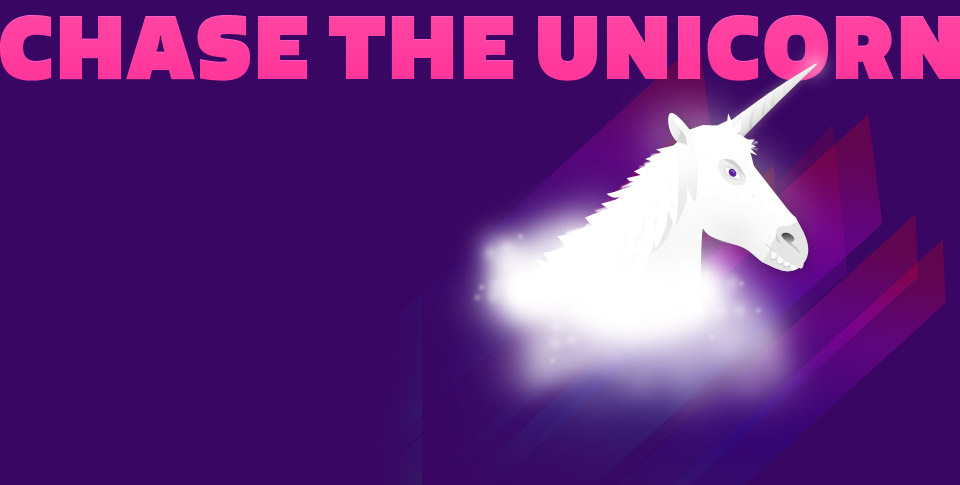
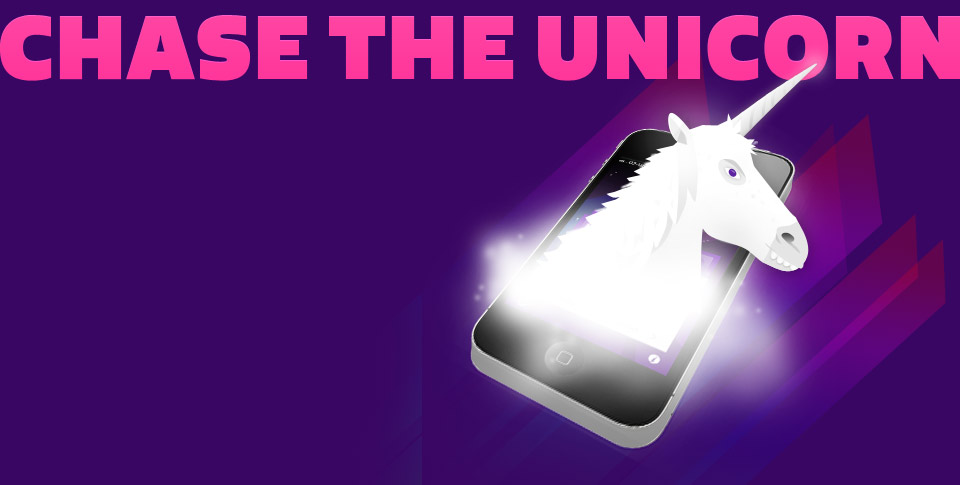
updated designs- made look better smaller

diff --git a/app/assets/stylesheets/application.css b/app/assets/stylesheets/application.css
@@ -35,14 +35,16 @@
     -webkit-animation-duration: 1s;
     -webkit-animation-timing-function: ease-in;
     -webkit-animation-iteration-count: 1;
+    
 }
- 
+
 .fade_in.fade_one {-webkit-animation-delay: 0, 0;}
 .fade_in.fade_two {-webkit-animation-delay: 0, 0.3s;}
 .fade_in.fade_three {-webkit-animation-delay: 0, 0.6s;}
 .fade_in.fade_four {-webkit-animation-delay: 0, 0.9s;}
 .fade_in.fade_five {-webkit-animation-delay: 0, 1.2s;}
 .fade_in.fade_six {-webkit-animation-delay: 0, 1.5s;}
+
 
 /*---------   Structure ------------*/
 
@@ -134,7 +136,7 @@ a.site_logo {
   clear: left;
 }
 #left_nav a {
-	padding: 5px 0;
+	padding: 6px 0;
 	float: left;
 	color: #fff;
   
@@ -166,7 +168,7 @@ p.home_paragraph_two {
 }
 
 .left_text {
-	margin-top: 170px;
+	margin-top: 180px;
   	position: relative;
   	z-index: 6;
 }
@@ -191,7 +193,7 @@ p.home_paragraph_two {
 	right: 0;
 }
 .unicorn_image {
-	background: url(/assets/unicorn_image.jpg) no-repeat 0 0;
+	background: url(/assets/unicorn_image2.jpg) no-repeat 0 0;
 	width: 960px;
 	height: 500px;  
 	position: absolute;
@@ -231,12 +233,11 @@ span.counter {
   background: #333 url(/assets/fourth.jpg);
   height: 1000px;
 }
-li#faq_link a {
+li#faq_link a, li#about_link a  {
 	font-size: 15px;
 
   font-weight: normal;
-  visibility: hidden;
-}
+  display: none;}
 #top_nav  {
   float: right;
   width: 100%;
@@ -251,11 +252,9 @@ li#faq_link a {
   margin-bottom: 20px;
 }
 #second .left_text {
-  margin-top: 260px;
+  margin-top: 170px;
 }
-#third .left_text {
-  margin-top: 260px;
-}
+
 
 
 #top_nav ul li, #top_nav ul {
@@ -283,6 +282,10 @@ li#faq_link a {
   text-decoration: none;
   background-color: #ff359a;
 }
+
+#faq_2 {
+  margin-top: 215px;
+}
 /*---------   Footer ------------*/
 #footer {
   position: fixed;
@@ -290,14 +293,14 @@ li#faq_link a {
   left: 0;
   width: 100%;
   z-index: 100;
-  height: 190px;
-  background: url(/assets/footer2.png) repeat-x bottom;
+  height: 170px;
+  background: url(/assets/footer2.png) repeat-x center -40px;
 }
 #footer_inner {
   position: relative;
 }
 .footer_box {
-	margin-top: 80px;
+	margin-top: 90px;
   
 }
 .footer_box h2 {
@@ -328,25 +331,33 @@ li#faq_link a {
   float: left;
   margin: 0px 0 0;
 }
+
+#email_signup_box {
+	float: left;
+	margin: 0 0 0 60px;
+  
+}
+
 #app_store_link {
   background: url(/assets/app_store.png) no-repeat;
   text-indent: -9000em;
   width: 175px;
   height: 60px;
   float: left;
-  margin: 22px 0 0 0;
+  margin:2px 0 0 0px;
   
 }
-#free_iphone_app {
-  background: url(/assets/free_iphone_app.png) no-repeat;
+.im_at_sxsw {
+  background: url(/assets/im_at_sxsw.png) no-repeat 0px;
   text-indent: -9000em;
   width: 100px;
-  height: 100px;
+  height: 200px;
   float: left;
   margin: 0px 0 0 0;
   position: absolute;
-  top: 25px;
-  right: 0px;
+	top: 175px;
+  right: 40px;
+  z-index: 100;
   
 }
 .footer_box input {
@@ -366,7 +377,7 @@ li#faq_link a {
   
 }
 .contact_us {
-  margin-top: 170px;
+  margin-top: 180px;
   
 }
 #yoomee_logo {
@@ -375,15 +386,16 @@ li#faq_link a {
 
 #footer_links {
 	float: left;
-	clear: left;
-	width: 100%;
+	width: 30px;
+	margin: 10px 0 0 30px;
   
 }
 
 #footer_links a {
   float: left;
-  margin: 15px 10px 0 0px;
+  margin: 0px 10px 0 0px;
   color: #999;
+
   
 }
 .left_text p.not_affiliated {
